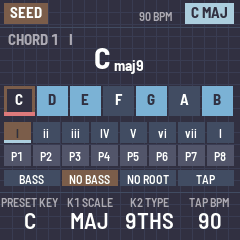
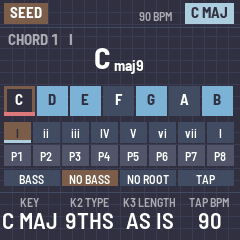
0.38: LENGTH as music (1/32 to 4 bars, AS IS, LEGATO) on home K3, by the group or a held key; arps and stabs follow it
Claude-Session: https://claude.ai/code/session_011auXBbJuCRdHVG1fENKT8m

Changed region(s): [[0.0, 0.8167, 0.4667, 0.9625], [0.4958, 0.8167, 0.7292, 0.9625]]

diff --git a/app/app.c b/app/app.c
@@ -760,9 +760,12 @@ static void midi_in(void)                /* audio interrupt: MIDI in plays the s
     }
 }
 
-static const uint16_t LEN_PCT[11] = {10, 25, 40, 55, 75, 100, 140, 200, 300, 450, 0};
-static const char *const LEN_NAME[11] = {"10%", "25%", "40%", "55%", "75%", "AS WRITTEN", "140%", "200%", "300%",
-                                         "450%", "LEGATO"};
+/* LENGTH, as music: a note this long (ticks, PPQ 96), AS IS (0), LEGATO (each note to the next). Index len + 5 */
+#define LEN_MAX 4
+static const uint16_t LEN_TK[10] = {12, 24, 48, 96, 192, 0, 384, 768, 1536, 0};
+static const char *const LEN_NAME[10] = {"1/32", "1/16", "1/8", "1/4", "1/2", "AS IS", "1 BAR", "2 BARS", "4 BARS",
+                                         "LEGATO"};
+#define LEN_LEGATO(l) ((l) == LEN_MAX)
 static uint32_t cs_rng = 0x2545F491u;
 static uint32_t cs_rnd(void)
 {
@@ -824,9 +827,9 @@ static void phrase_tick(uint32_t n)
                     out_off(P->snd[k] - 1u, P->ch);
                 out_on(m, clamp((int32_t)v, 1, 127), P->ch);
                 P->snd[k] = (uint8_t)(m + 1u);
-                if (f->len && li < 11u) {
-                    if (LEN_PCT[li])
-                        d = d * LEN_PCT[li] / 100u;
+                if (f->len && li < 10u) {
+                    if (!LEN_LEGATO(f->len))
+                        d = LEN_TK[li];
                     else {
                         uint32_t j, nx = (uint32_t)we;
                         for (j = 0; j < pd->pn && j < MAXPH; j++)
@@ -933,14 +936,15 @@ static void chord_tick(uint32_t n)
             while (c->next < c->t + n) {
                 if (RH_PAT[c->mode] >> (c->idx % 16u) & 1u) {
                     uint32_t li = (uint32_t)(c->len + 5), g = step * 3u / 2u;
+                    float tk = SR * 60.0f / ((float)tempo * (float)PPQ);   /* a tick, in samples */
                     for (k = 0; k < c->n; k++) {
                         if (c->sounded[k])
                             out_off(c->note[k], c->ch);
                         out_on(c->note[k], c->human ? human_vel(c->vel[0], c->human) : c->vel[0], c->ch);
                         c->sounded[k] = 1;
                     }
-                    if (li < 11u)
-                        g = LEN_PCT[li] ? g * LEN_PCT[li] / 100u : step * 5u;
+                    if (c->len && li < 10u)
+                        g = LEN_LEGATO(c->len) ? step * 16u : (uint32_t)((float)LEN_TK[li] * tk);
                     c->off = c->next + (g ? g : 1u);
                 }
                 c->next += c->swing > 50u ? (c->idx & 1u ? step * 2u * (100u - c->swing) / 100u
@@ -948,6 +952,12 @@ static void chord_tick(uint32_t n)
                 c->idx++;
             }
         } else if (RH_ARP(c->mode) && c->n) {
+            if (c->off && c->off < c->t + n) {   /* LENGTH: the arp note ends before the next */
+                if (c->cur)
+                    out_off(c->cur - 1u, c->ch);
+                c->cur = 0;
+                c->off = 0;
+            }
             while (c->next < c->t + n) {
                 uint32_t step = (uint32_t)(30.0f * SR / (float)tempo / c->spd);   /* 8ths at 100% */
                 uint32_t q = arp_pick(c->arp, c->idx, c->n);
@@ -957,6 +967,10 @@ static void chord_tick(uint32_t n)
                     out_off(c->cur - 1u, c->ch);
                 out_on(c->note[q], c->human ? human_vel(c->vel[0], c->human) : c->vel[0], c->ch);
                 c->cur = (uint8_t)(c->note[q] + 1u);
+                if (c->len && !LEN_LEGATO(c->len) && c->len + 5 < 10) {
+                    uint32_t g = (uint32_t)((float)LEN_TK[c->len + 5] * SR * 60.0f / ((float)tempo * (float)PPQ));
+                    c->off = g < step ? c->next + (g ? g : 1u) : 0u;
+                }
                 c->idx++;
                 c->next += step ? step : 1u;
             }
@@ -1568,6 +1582,8 @@ static int session_load(void)
     for (i = 0; i < NPADS; i++) {
         desc[i] = SS.d[i];
         pfx[i] = SS.f[i];
+        if (pfx[i].len > LEN_MAX)
+            pfx[i].len = LEN_MAX;
         if (SS.kept >> i & 1u) {
             pads[i] = SS.p[i];
             if (pads[i].type == PAD_PROG)
@@ -1870,7 +1886,10 @@ static void edit_say(const char *what, const char *val)   /* "CHORD KEYS: RHYTHM
         str_set(t, j < 8u ? "CHORD " : "PROG ", sizeof t);
         num_text((int32_t)(j < 8u ? j + 1u : j - 7u), t + cs_len(t), 0);
     } else
-        str_set(t, h ? "HELD KEYS" : GRP_NAME[ui.grp % 3u], sizeof t);
+    {
+        static const char *const SH[3] = {"CHORDS", "PROGS", "NOTES"};
+        str_set(t, h ? "HELD KEYS" : SH[ui.grp % 3u], sizeof t);
+    }
     text_cat(t, ": ");
     text_cat_n(t, what, sizeof t);
     app_say(t, val);
@@ -2290,7 +2309,7 @@ buttons:
                     num_text(v.human * 2, t, 0);
                     text_cat(t, "%");
                 } else if (es) {
-                    v.len = (int8_t)clamp(v.len + es, -5, 5);
+                    v.len = (int8_t)clamp(v.len + es, -5, LEN_MAX);
                     what = "LENGTH";
                     str_set(t, v.len ? LEN_NAME[v.len + 5] : "AS IS", sizeof t);
                 } else if (ea) {
@@ -2416,6 +2435,20 @@ buttons:
             rekey();
             app_say("TYPE", CTYPE_NAME[set.type]);
             coach_event(CE_SHAPE);
+        }
+        if (k3) {                        /* LENGTH: the group played last, or the keys held */
+            int32_t r = edit_ref();
+            uint32_t m = edit_pads(), j;
+            if (r < 0)
+                app_say("NOTE KEYS", "THEY SOUND WHILE HELD");
+            else {
+                int8_t l = (int8_t)clamp(pfx[r].len + k3, -5, LEN_MAX);
+                for (j = 0; j < NPADS; j++)
+                    if (m >> j & 1u)
+                        pfx[j].len = l;
+                set_dirty = 1;
+                edit_say("LENGTH", LEN_NAME[l + 5]);
+            }
         }
         if (es || k1 || k2 || k3 || k4 || ek || ea)
             ui.redraw = 1;
@@ -2735,11 +2768,14 @@ static void draw_home_bottom(void)
         cv_text(x + (56 - text_w(&FONT_XS, CN[i])) / 2, 52, &FONT_XS, CN[i], C_WHITE);
     }
     {
-        static const char *const LBL[4] = {"PRESET KEY", "K1 SCALE", "K2 TYPE", "TAP BPM"};
+        static const char *const LBL[4] = {"KEY", "K2 TYPE", "K3 LENGTH", "TAP BPM"};
         char v[4][12];
+        int32_t r = edit_ref();
         spell(set.root, letter_of(set.root, set.scale), v[0]);
-        str_set(v[1], SCALE_SHORT[set.scale], sizeof v[1]);
-        str_set(v[2], CTYPE_NAME[set.type], sizeof v[2]);
+        text_cat(v[0], " ");
+        text_cat_n(v[0], SCALE_SHORT[set.scale], sizeof v[0]);
+        str_set(v[1], CTYPE_NAME[set.type], sizeof v[1]);
+        str_set(v[2], r >= 0 ? LEN_NAME[pfx[r].len + 5] : "n/a", sizeof v[2]);
         num_text((int32_t)tempo, v[3], 0);
         bottom_bar(72, LBL, v);
     }
@@ -2908,7 +2944,7 @@ static void draw_roll(uint32_t i, int32_t x0, int32_t y0, int32_t w, int32_t h)
         bars = p->bars ? p->bars : 1u;
         for (k = 0; k < p->pn && k < MAXPH && n < RN; k++, n++) {
             st[n] = swing_t((float)ph[i][k].s, f->swing);
-            du[n] = (float)ph[i][k].d;
+            du[n] = f->len && !LEN_LEGATO(f->len) ? (float)LEN_TK[f->len + 5] : (float)ph[i][k].d;
             pi[n] = (int16_t)(ph[i][k].p + 12 * f->oct);
         }
         if (pl[i].on)
@@ -2943,7 +2979,7 @@ static void draw_roll(uint32_t i, int32_t x0, int32_t y0, int32_t w, int32_t h)
             for (j = 0; t < W && n < RN; j++, n++) {
                 float sl = f->swing > 50u ? step * 2.0f * (float)(j & 1u ? 100u - f->swing : f->swing) / 100.0f : step;
                 st[n] = t;
-                du[n] = sl * 0.9f;
+                du[n] = f->len && !LEN_LEGATO(f->len) ? fm_minf((float)LEN_TK[f->len + 5], sl) : sl * 0.9f;
                 pi[n] = (int16_t)v[dir == AR_RANDOM ? j % cn : arp_pick(dir, j, cn)];
                 t += sl;
             }
@@ -2954,7 +2990,7 @@ static void draw_roll(uint32_t i, int32_t x0, int32_t y0, int32_t w, int32_t h)
                 if (RH_PAT[f->plays] >> (j % 16u) & 1u)
                     for (k = 0; k < cn && n < RN; k++, n++) {
                         st[n] = t;
-                        du[n] = step * 1.5f;
+                        du[n] = f->len ? (LEN_LEGATO(f->len) ? W - t : (float)LEN_TK[f->len + 5]) : step * 1.5f;
                         pi[n] = (int16_t)v[k];
                     }
                 t += sl;
@@ -3276,7 +3312,7 @@ void app_init(void)
         int got = plat_store_load(OBJ_SETTINGS, &set, sizeof set);
         if (got != (int)sizeof set || set.magic != SET_MAGIC || set.root > 11u || set.scale >= NSCALES ||
             set.octave < -2 || set.octave > 2 || set.boct < -2 || set.boct > 2 || set.type >= NCTYPES || set.plays >= PL_N || set.bassm >= BM_N ||
-            set.human > 50u || set.len < -5 || set.len > 5 || set.bpm < 40u || set.bpm > 240u || set.coach >= CO_N ||
+            set.human > 50u || set.len < -5 || set.len > LEN_MAX || set.bpm < 40u || set.bpm > 240u || set.coach >= CO_N ||
             set.out >= OUT_N || set.snd[0] >= NSOUNDS || set.snd[1] >= NSOUNDS || set.snd[2] >= NSOUNDS ||
             set.snd[3] >= NSOUNDS)
             settings_defaults();
@@ -3445,6 +3481,8 @@ int app_expect(const char *what, int *got)
         *got = pfx[atoi(what + 6) % NPADS].plays;
     else if (!strncmp(what, "speed", 5))
         *got = pfx[atoi(what + 5) % NPADS].speed;
+    else if (!strncmp(what, "len", 3))
+        *got = pfx[atoi(what + 3) % NPADS].len;
     else if (!strncmp(what, "human", 5))
         *got = pfx[atoi(what + 5) % NPADS].human;
     else if (!strcmp(what, "boct"))

diff --git a/app/docs/MANUAL.md b/app/docs/MANUAL.md
@@ -86,7 +86,8 @@ the BPM too.
 | PRESET | The key's root |
 | K1 | The scale (major, minor and the modes) |
 | K2 | TYPE: TRIADS, 7THS, 9THS, SUS2, SUS4, ADD9 |
-| K3, K4, SELECT, ALGORITHM | Free for now |
+| K3 | LENGTH: 1/32, 1/16, 1/8, 1/4, 1/2, AS IS, 1 BAR, 2 BARS, 4 BARS, LEGATO. The group played last, or hold a key for that key |
+| K4, SELECT, ALGORITHM | Free for now |
 | OCT- / OCT+ | Octave: of the key you hold, else of the group you played last |
 | HOME, held | SHIFT |
 
@@ -131,7 +132,7 @@ The knobs, most used first:
 | K2 | STRUM: the chord's notes one after another, OFF to 200 ms |
 | K3 | SPEED, 50% to 200% |
 | K4 | HUMANIZE: each note a little off in time and velocity, like a player |
-| SELECT | LENGTH: shorter, AS IS, longer, all the way LEGATO |
+| SELECT | LENGTH, the same as home K3: 1/32 to 4 BARS, AS IS, LEGATO |
 | ALGORITHM | SWING: the off-beats late, STRAIGHT to 75% |
 | PRESET | INVERSION, -3 to +3 (chord keys) |
 
